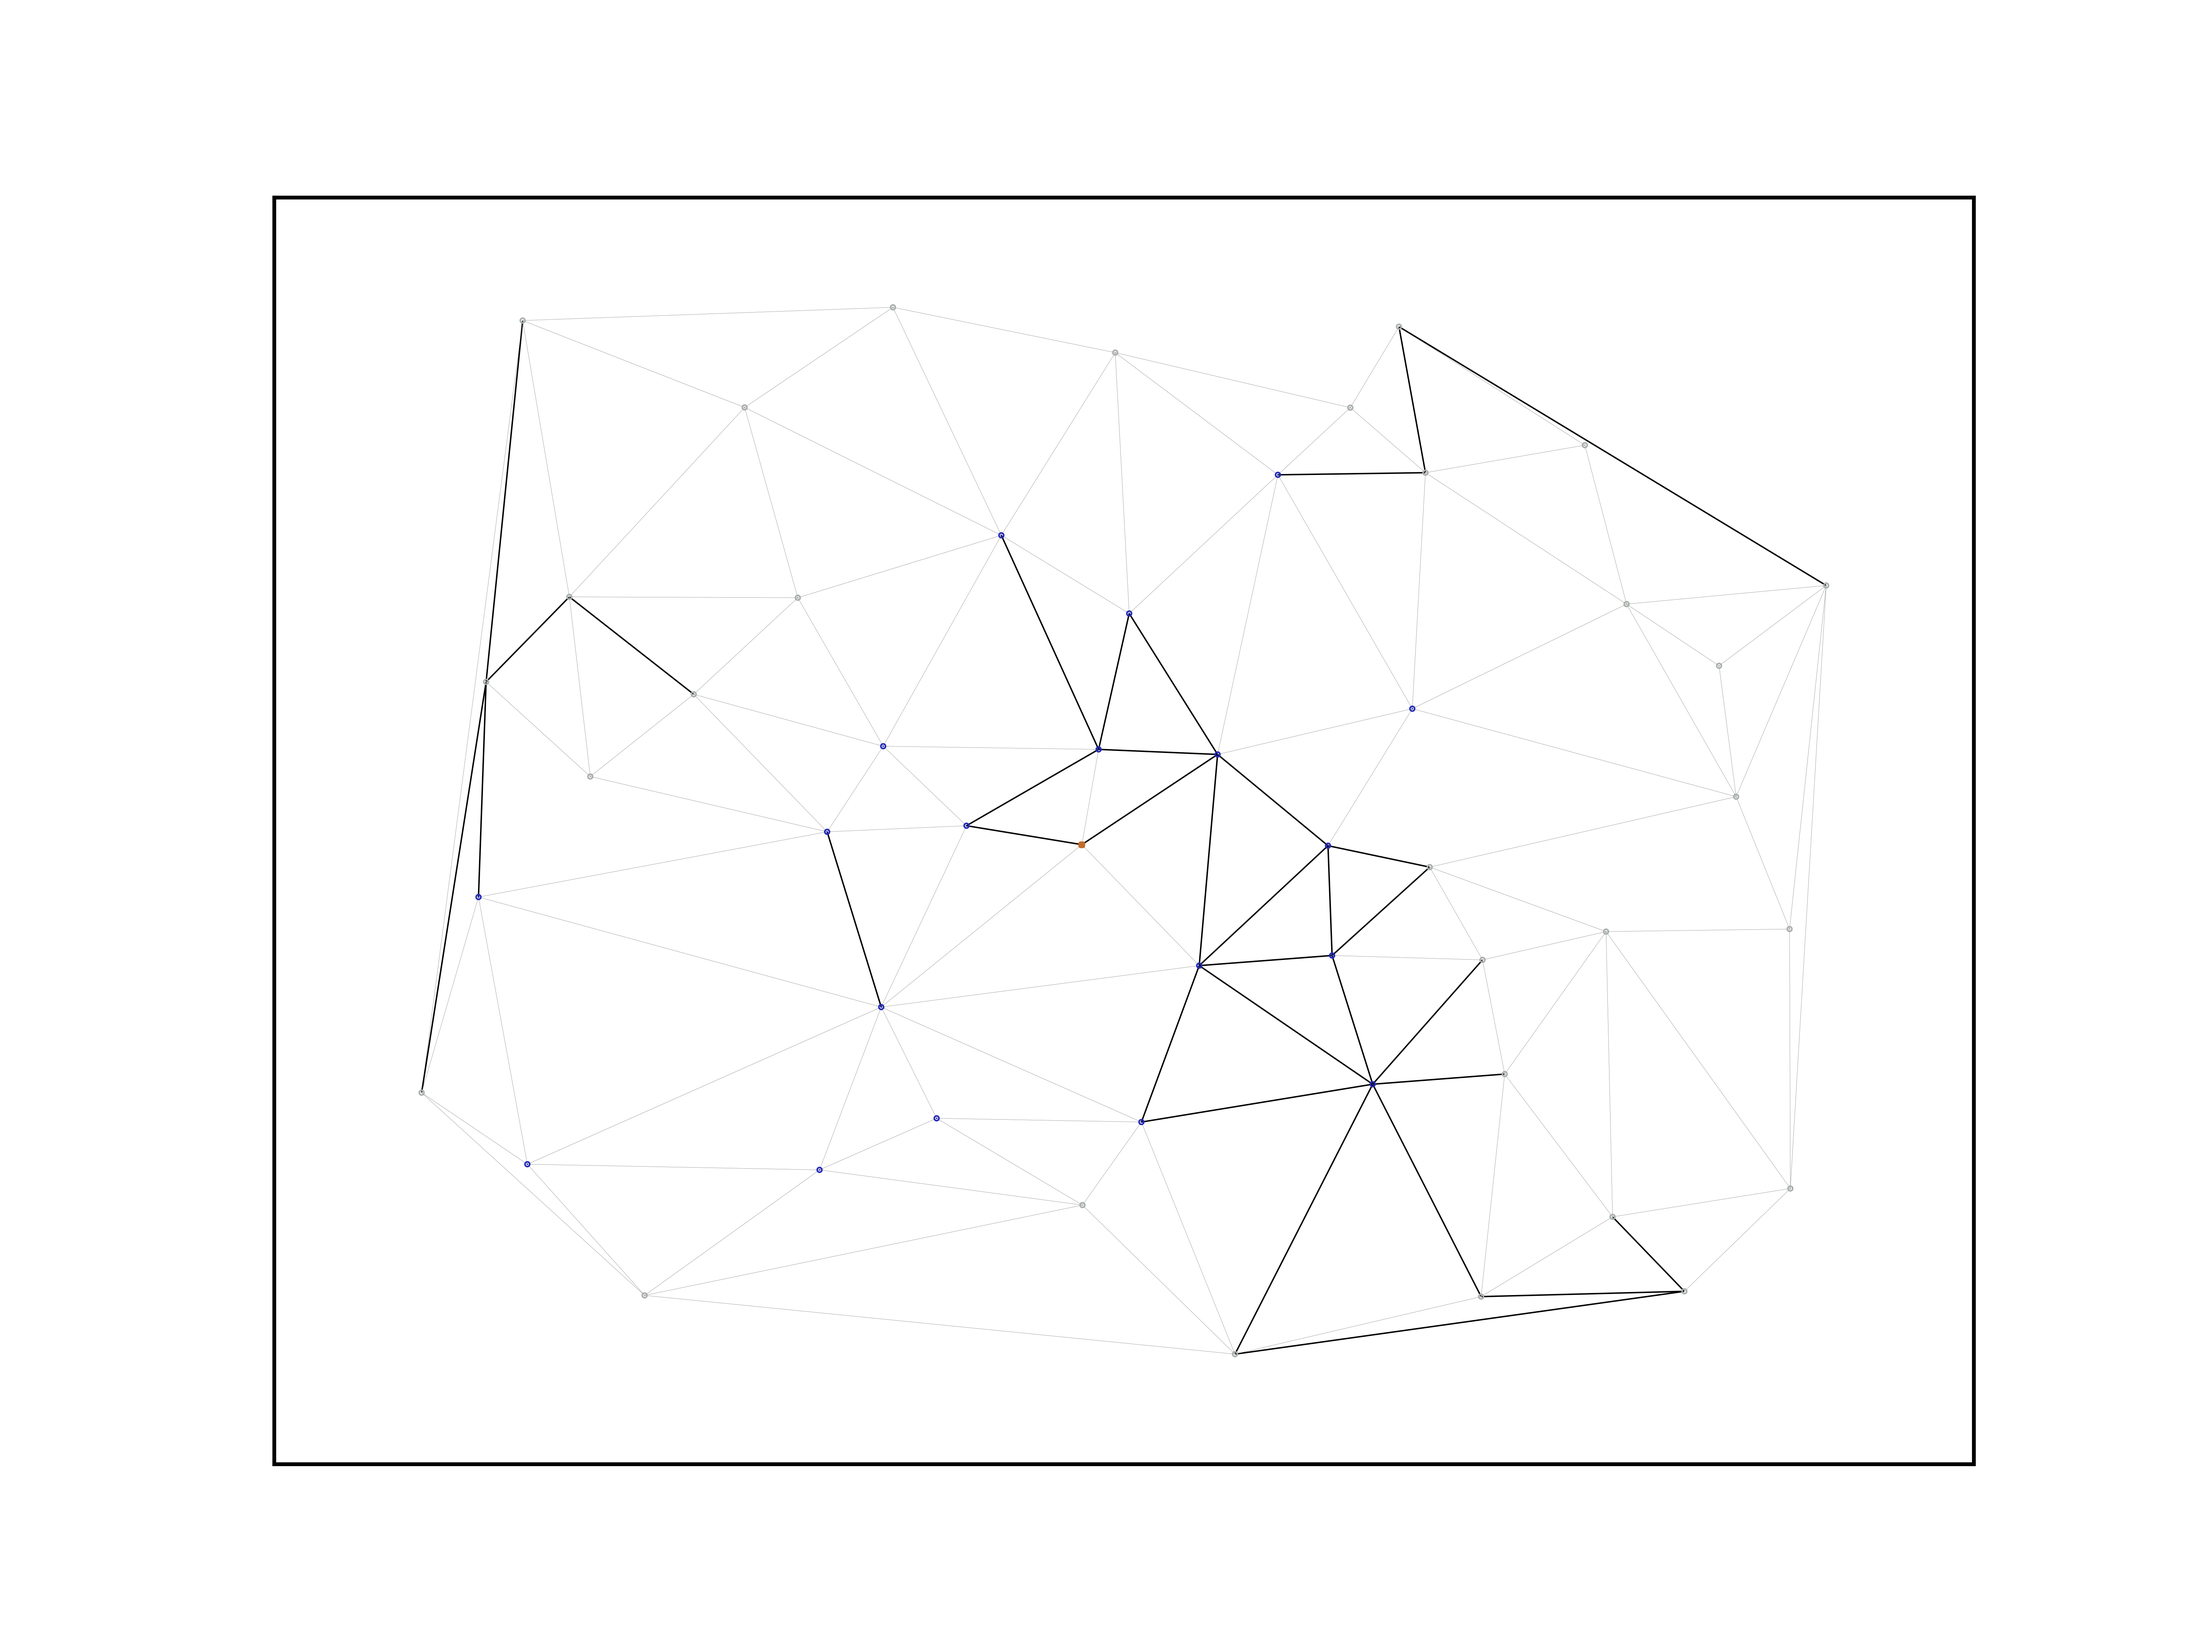
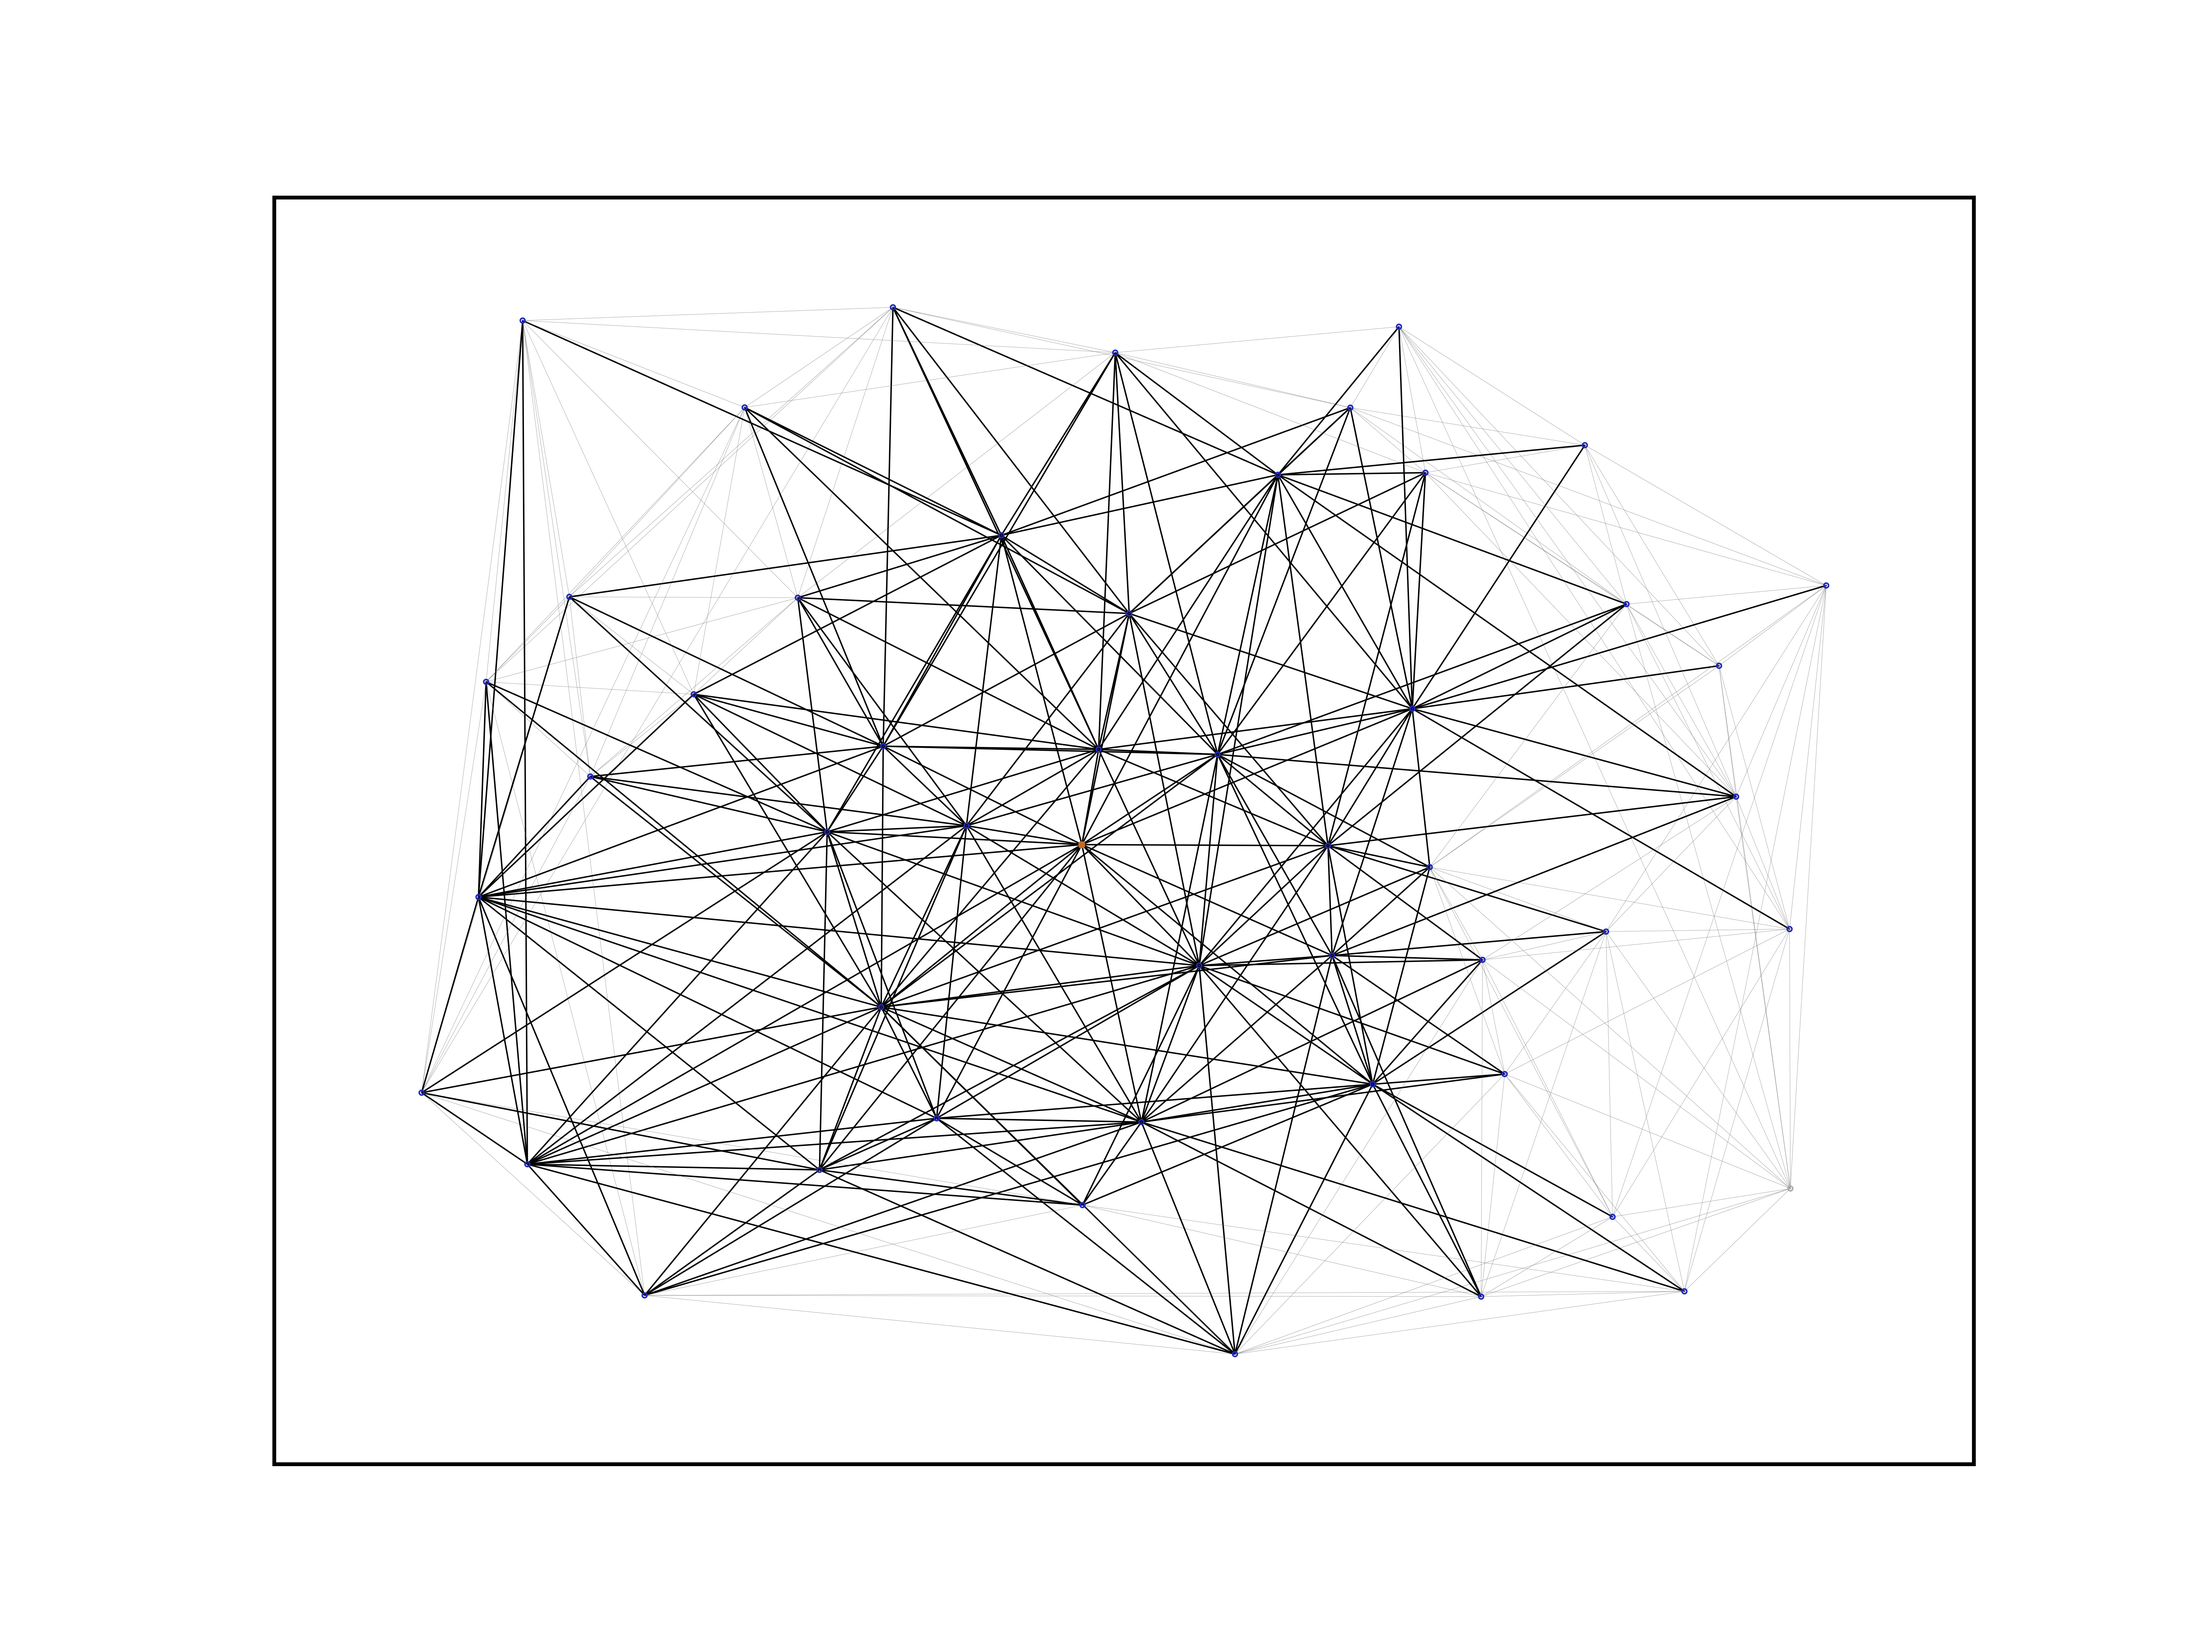
problem solved

diff --git a/IsolatingData.py b/IsolatingData.py
@@ -246,6 +246,7 @@ def Write_Draw(Input: InputStructure, Output: OutputStructure, WithKTwo: bool = 
     if os.path.isfile(FNAMED):
         os.remove(FNAMED)
     
+
     edgelistO = []
     edgelistC = []
     edgelistW = []
@@ -253,20 +254,21 @@ def Write_Draw(Input: InputStructure, Output: OutputStructure, WithKTwo: bool = 
     edge_colors= ["#737373","#000000","#a9b0aa","#80d189","#ccbfbe","#ccbfbe","#ccbfbe"]
 
 
-    for i in range(Input.n):
-        for j in range(Input.n):
-            if Output.X[i][j] > 0.5 and Input.A[i][j]>0.5:
+    for i in range(Input.n-1):
+        for j in range(i+1,Input.n):
+            if Output.X[i][j] > 0.5 or Output.X[j][i] > 0.5:
                 edgelistO.append((i,j))
                 edgelistC.append(edge_colors[1])
                 edgelistW.append(0.3)
-            elif Input.A[i][j] > 0.5:
+            elif Input.A[i][j] > 0.5 or Input.A[j][i] > 0.5: 
                 edgelistO.append((i,j))
                 edgelistC.append(edge_colors[0])
                 edgelistW.append(0.05)
-
+   
 
     NodeES = set()
     NodeEN = set()
+
     for i in range(Input.n):
         for j in range(Input.n):
             if Output.X[i][j] > 0.5:
@@ -408,26 +410,27 @@ def Write_Draw(Input: InputStructure, Output: OutputStructure, WithKTwo: bool = 
 
 def ExtactingNodes_YUE():
     
-    St = 254
-    Ed = 255
+    St = 900004
+    Ed = 900005
 
     for x in range(St, Ed):
 
-        InputDt = read_data(x, INCLUDE_OLD=False, YUE=False)
+        InputDt = read_data(x, INCLUDE_OLD=False, YUE=True)
 
         InputDt.blank_X()
         InputDt.blank_T()
 
-        Somecheckings(InputDt)
+        #Somecheckings(InputDt)
         
-        InputDt.recalculate(K=1, ResetLimit=True, WithAdjustment=True)
+        InputDt.recalculate(K=2, ResetLimit=True, WithAdjustment=True)
 
-        Somecheckings(InputDt)
+        #Somecheckings(InputDt)
         
         Draw_Graph_O(InputDt)
         Draw_Graph_K(InputDt)
 
-        ResultDt = Gurobi_Solve(InputDt, Lazy= False, YUE= False, UndirectionalConstraint=True, Testing= True)
+        #ResultDt = Gurobi_Solve(InputDt, Lazy= False, YUE= False, UndirectionalConstraint=True, Testing= True)
+        ResultDt = Gurobi_Solve(InputDt, Lazy= False, YUE= True, UndirectionalConstraint=False, Testing= False)
 
         InputDt.reset_X()
         InputDt.reset_T()

diff --git a/Test/test_list.py b/Test/test_list.py
@@ -1,0 +1,12 @@
+TestList = []
+
+
+TestList.append((1,2))
+
+i = 2
+j = 1
+if (i,j) not in TestList and (j,i) not in TestList:
+    TestList.append((i,j))
+
+
+print(TestList)
